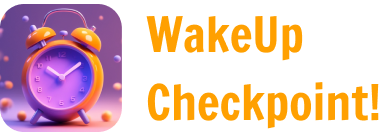
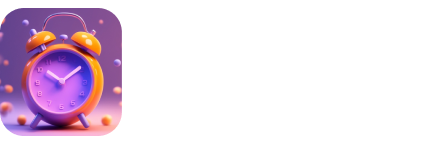
textfield is not aligning witht he textbox field.

diff --git a/app/(auth)/log-in.jsx b/app/(auth)/log-in.jsx
@@ -1,11 +1,46 @@
-import { View, Text } from 'react-native'
-import React from 'react'
+import { View, Text, ScrollView, Image } from 'react-native'
+import React, { useState } from 'react'
+import { SafeAreaView } from 'react-native-safe-area-context'
+
+import { images } from '../../constants';
+import FormField from '../../components/FormField';
 
 const LogIn = () => {
+  const [form, setForm] = useState({
+    email:'',
+    password:''
+  })
   return (
-    <View>
-      <Text>LogIn</Text>
-    </View>
+    <SafeAreaView className="bg-primary h-full">
+      <ScrollView>
+        <View className="w-full justify-center h-full px-4 my-6">
+          <Image source={images.header}
+          resizeMode='contain' className="w-[145px] h-[50px]" />
+
+          <Text className="text-2xl text-white text-semibold mt-10 font-psemibold">Log in to your account</Text>
+
+          <FormField 
+            title="Email"
+            value={form.email}
+            handleChangeText={(e) => setForm({ ...form,
+            email: e })}
+            otherStyles="mt-7"
+            keyboardType="email-address"
+
+          />
+          <FormField 
+            title="Password"
+            value={form.password}
+            handleChangeText={(e) => setForm({ ...form,
+            password: e })}
+            otherStyles="mt-7"
+            
+
+          />
+
+        </View>
+      </ScrollView>
+     </SafeAreaView> 
   )
 }
 

diff --git a/components/FormField.jsx b/components/FormField.jsx
@@ -1,0 +1,25 @@
+import { View, Text, TextInput } from 'react-native'
+import React, { useState } from 'react'
+
+const FormField = ({ title, value, placeholder, handleChangeText, otherStyles, ...props }) => {
+    const [showPassword, setShowPassword] = useState(false)
+  return (
+    <View className={`space-y-2 ${otherStyles}`}>
+      <Text className="text-base text-gray-100 font-pmedium">{title}</Text>
+
+        <View className="border-2 border-black-200 w-full h-16 px-4 bg-black-100 rounded-2xl focus:border-secondary items-center"/>
+        <TextInput
+          className="flex-1 text-white font-psemibold text-base"
+          value={value}
+          placeholder={placeholder}
+          placeholderTextColor="#7B7B8B"
+          onChangeText={handleChangeText}
+          secureTextEntry={title === "Password" && !showPassword}
+          
+        />
+
+    </View>
+  )
+}
+
+export default FormField

diff --git a/app/(auth)/_layout.jsx b/app/(auth)/_layout.jsx
@@ -1,11 +1,28 @@
 import { View, Text } from 'react-native'
-import React from 'react'
+import { Stack } from 'expo-router';
+import { StatusBar } from 'expo-status-bar'
 
 const AuthLayout = () => {
   return (
-    <View>
-      <Text>AuthLayout</Text>
-    </View>
+    <>
+      <Stack>
+        <Stack.Screen 
+          name="log-in"
+          options={{
+            headerShwon: false
+          }}
+        />
+        <Stack.Screen 
+          name="register"
+          options={{
+            headerShwon: false
+          }}
+        />
+
+      </Stack>
+
+      <StatusBar backgroundColor="#161622" style="light" />
+    </>
   )
 }
 
